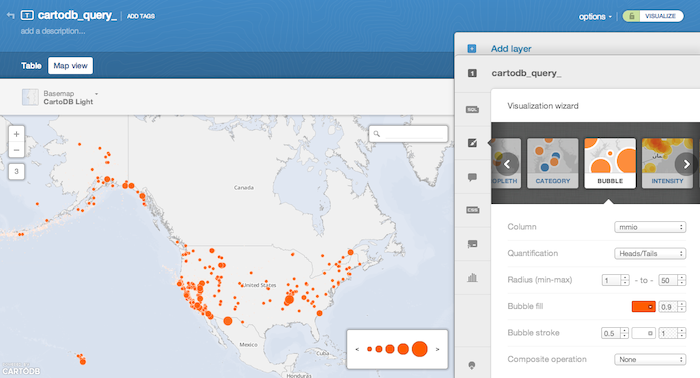
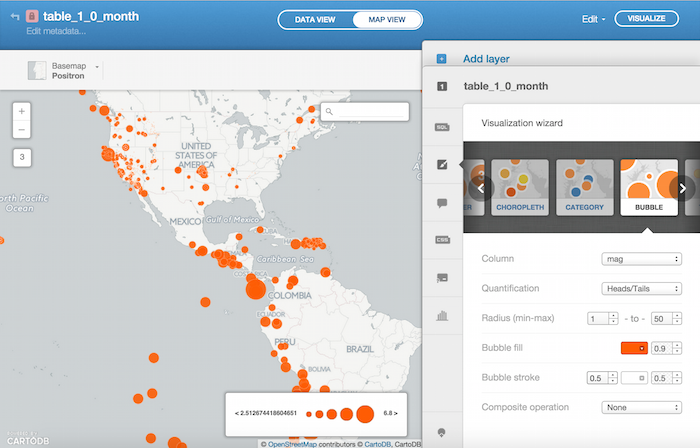
Fixes data mismatch

diff --git a/courses/02-design-for-beginners/lesson-3.md b/courses/02-design-for-beginners/lesson-3.md
@@ -28,7 +28,7 @@ Before we start making changes based on our zoom level, it's important to note t
 
 To start working with zoom-based styling, let's go back to the Simple visualization, and reduce the marker size to around 3 so that we can see more of our data points. In the CartoCSS window, we'll add some new styling so that at different zooms, the size of the marker gets bigger. Here, we want the markers to get bigger the more zoomed in we are. We want to tell CartoDB that if the zoom is equal to a certain level, the marker-width should be larger than the original 3. We could also tell CartoDB to change marker width at all zoom levels _larger than_ a specified level. Take a look at the last three lines of our code block here.
 
-~~~css
+{% highlight css %}
 #cartodb_query_{
   marker-fill-opacity: 0.9;
   marker-line-color: #FFF;
@@ -43,7 +43,7 @@ To start working with zoom-based styling, let's go back to the Simple visualizat
   [zoom = 5] {marker-width: 12}
   [zoom > 5] {marker-width: 16}
 } 
-~~~
+{% endhighlight %}
 
 We can see that CartoDB will read this as all markers should have a width value of 3. If the zoom equals 4, the marker width value should be 6. If the zoom equals 5, the marker width value should be 12. Finally, if the zoom is _larger than_ 5, the marker width value should be 16. This means that as we zoom in, the markers become bigger. Go ahead and play around with this to see what kinds of visualizations you can make based on zoom.
 
@@ -51,19 +51,19 @@ We can see that CartoDB will read this as all markers should have a width value 
 
 Another tactic that you can use to control how your data is displayed is filtering. By using filters, you can reduce what data is shown on your map.
 
-Looking at the map of earthquake data, and pulling out the Filters section of the pull-out tray, we can see that there are two interesting columns by which we could filter: "quakedate" and "mmio". (The other two, "created_at" and "updated_at" are generated by CartoDB, and not of interest to us right now.) Selecting either one of these will pull up a small graph showing the distribution of the data in accordance to the column selected. You can drag the sliders to restrict which portion of the data is visualized on your map.
+Looking at the map of earthquake data, and pulling out the Filters section of the pull-out tray, we can see that there are some interesting columns by which we could filter: `time` and `mag`. Selecting either one of these will pull up a small graph showing the distribution of the data in accordance to the column selected. You can drag the sliders to restrict which portion of the data is visualized on your map.
 
-Starting with the "quakedate" field, we see that most of the recorded quakes occurred recently. This is kind of interesting, but makes sense, and is not the story we want to tell right now.
+Starting with the "time" field, we see that most of the recorded quakes occurred recently. This is kind of interesting, but makes sense, and is not the story we want to tell right now.
 
-![Filtered by "quakedate."]({{site.baseurl}}/img/course2/lesson3/quakedate.png)
+![Filtered by the time column]({{site.baseurl}}/img/course2/lesson3/time.png)
 
-Perhaps filtering by "mmio," which is the severity of the earthquake, will be a more interesting story. Filtering by mmio, we see that many quakes have a low mmio, and many fewer have an mmio value above 8. We can filter what data is shown to highlight only these more severe quakes, as you see in the screenshot below. 
+Perhaps filtering by `mag`, which is the severity of the earthquake, will be a more interesting story. Filtering by `mag`, we see that many quakes have a low `mag`, and many fewer have an `mag` value above 7. We can filter what data is shown to highlight only these more severe quakes, as you see in the screenshot below. 
 
-![Filtered by "mmio."]({{site.baseurl}}/img/course2/lesson3/mmio.png)
+![Filtered by the mag column]({{site.baseurl}}/img/course2/lesson3/mag.png)
 
 ### Using Bubbles
 
-We can also change the sizes of our markers based upon a column we're interested in. For example, if we want markers representing a very intense earthquake (a data point with a high "mmio" value) to be bigger than those of less intense earthquakes, we can use the Bubble Visualization. This creates a size hierarchy based on an attribute of the data. Here, we're interested in the attribute of quake intensity (measured by the column "mmio").
+We can also change the sizes of our markers based upon a column we're interested in. For example, if we want markers representing a very intense earthquake (a data point with a high `mag` value) to be bigger than those of less intense earthquakes, we can use the Bubble Visualization. This creates a size hierarchy based on an attribute of the data. Here, we're interested in the attribute of quake intensity (measured by the column `mag`).
 
 To do this, just select the Bubble Visualization in your Visualization Wizard. You can play with the largest and smallest sizes to emphasize the variation in sizes. We went ahead and made our marker radius range go from 1 to 50.
 
@@ -78,37 +78,60 @@ These tools and tactics that we've covered - changing marker size based on zoom,
 
 Here, we'll start with the bubble map we left off with. We have a simple visualization which highlights the more intense earthquakes by making their marker bigger. If we change the composite operation (which we started discussing in Lesson 2), we can also visualize the intensity of the quakes by region. Now, when there are multiple markers in the same area, they will darken. This highlights areas with high concentrations of quakes, as you can see below.
 
- ![Our Bubble Visualization]({{site.baseurl}}/img/course2/lesson3/together1.png)
+![Our Bubble Visualization]({{site.baseurl}}/img/course2/lesson3/together1.png)
 
-Once we have this, we can add the zoom-based styling. Remember that your sizing is already based upon the column "mmio" since we're using the Bubble Visualization. This means that when you add the zoom-based styling, you'll need to apply it to each "bin" of data created by your Bubble Visualization. Overall, we will want to make markers larger as we zoom in, especially at the closest levels of zoom. This will help viewers interact with the map at close zooms. Take a look at the code below to see how this is done.
+Once we have this, we can add the zoom-based styling. Remember that your sizing is already based upon the column `mag` since we're using the Bubble Visualization. This means that when you add the zoom-based styling, you'll need to apply it to each "bin" of data created by your Bubble Visualization. Overall, we will want to make markers larger as we zoom in, especially at the closest levels of zoom. This will help viewers interact with the map at close zooms. Take a look at the code below to see how this is done.
 
-~~~css
-#cartodb_query_ [ mmio <= 12] {
-   marker-width: 24.0;
-  [zoom>5]{marker-width: 48;}
+{% highlight css %}
+/** bubble visualization */
+
+#table_1_0_month{
+  marker-fill-opacity: 0.9;
+  marker-line-color: #FFF;
+  marker-line-width: 0.5;
+  marker-line-opacity: 0.5;
+  marker-placement: point;
+  marker-multi-policy: largest;
+  marker-type: ellipse;
+  marker-fill: #FFCC00;
+  marker-allow-overlap: true;
+  marker-clip: false;
+  marker-comp-op: multiply;
 }
-#cartodb_query_ [ mmio <= 11] {
-   marker-width: 16.3;
-  [zoom>5]{marker-width: 32;}
+#table_1_0_month [ mag <= 6.8] {
+   marker-width: 39.1;
+  [zoom>5] { marker-width: 78.2; }
 }
-#cartodb_query_ [ mmio <= 9.5] {
-   marker-width: 8.7;
-  [zoom>5]{marker-width: 18;}
+#table_1_0_month [ mag <= 6.7] {
+   marker-width: 33.7;
+  [zoom>5] { marker-width: 67.4; }
 }
-#cartodb_query_ [ mmio <= 6.5] {
-   marker-width: 1.0;
-  [zoom>5]{marker-width: 2;}
-  [zoom>6]{marker-width: 4;}
-  [zoom>7]{marker-width: 8;}
+#table_1_0_month [ mag <= 6.566666666666666] {
+   marker-width: 28.2;
+  [zoom>5] { marker-width: 56.4; }
+}
+#table_1_0_month [ mag <= 6.11625] {
+   marker-width: 22.8;
+  [zoom>5] { marker-width: 45.6; }
+}
+#table_1_0_month [ mag <= 5.631176470588235] {
+   marker-width: 17.3;
+  [zoom>5] { marker-width: 34.6; }
+}
+#table_1_0_month [ mag <= 4.757179487179487] {
+   marker-width: 1;
+  [zoom>5] { marker-width: 2; }
+  [zoom>6] { marker-width: 4; }
+  [zoom>7] { marker-width: 8; }
   marker-line-width: 0;
 }
-#cartodb_query_ [ mmio <= 3] {
+#table_1_0_month [ mag <= 3.586822429906542] {
    marker-width: 0.5;
   [zoom>5]{marker-width: 1;}
   [zoom>6]{marker-width: 2;}
   [zoom>7]{marker-width: 4;}
 }
-~~~
+{% endhighlight %}
 
 When we're zoomed out, then, we are not overwhelmed by feeling as if there is too much data. When we are zoomed in, we are able to see what points are in our area of interest, and they're not too small. Play around with these interactions of size to see what you can come up with.
 
